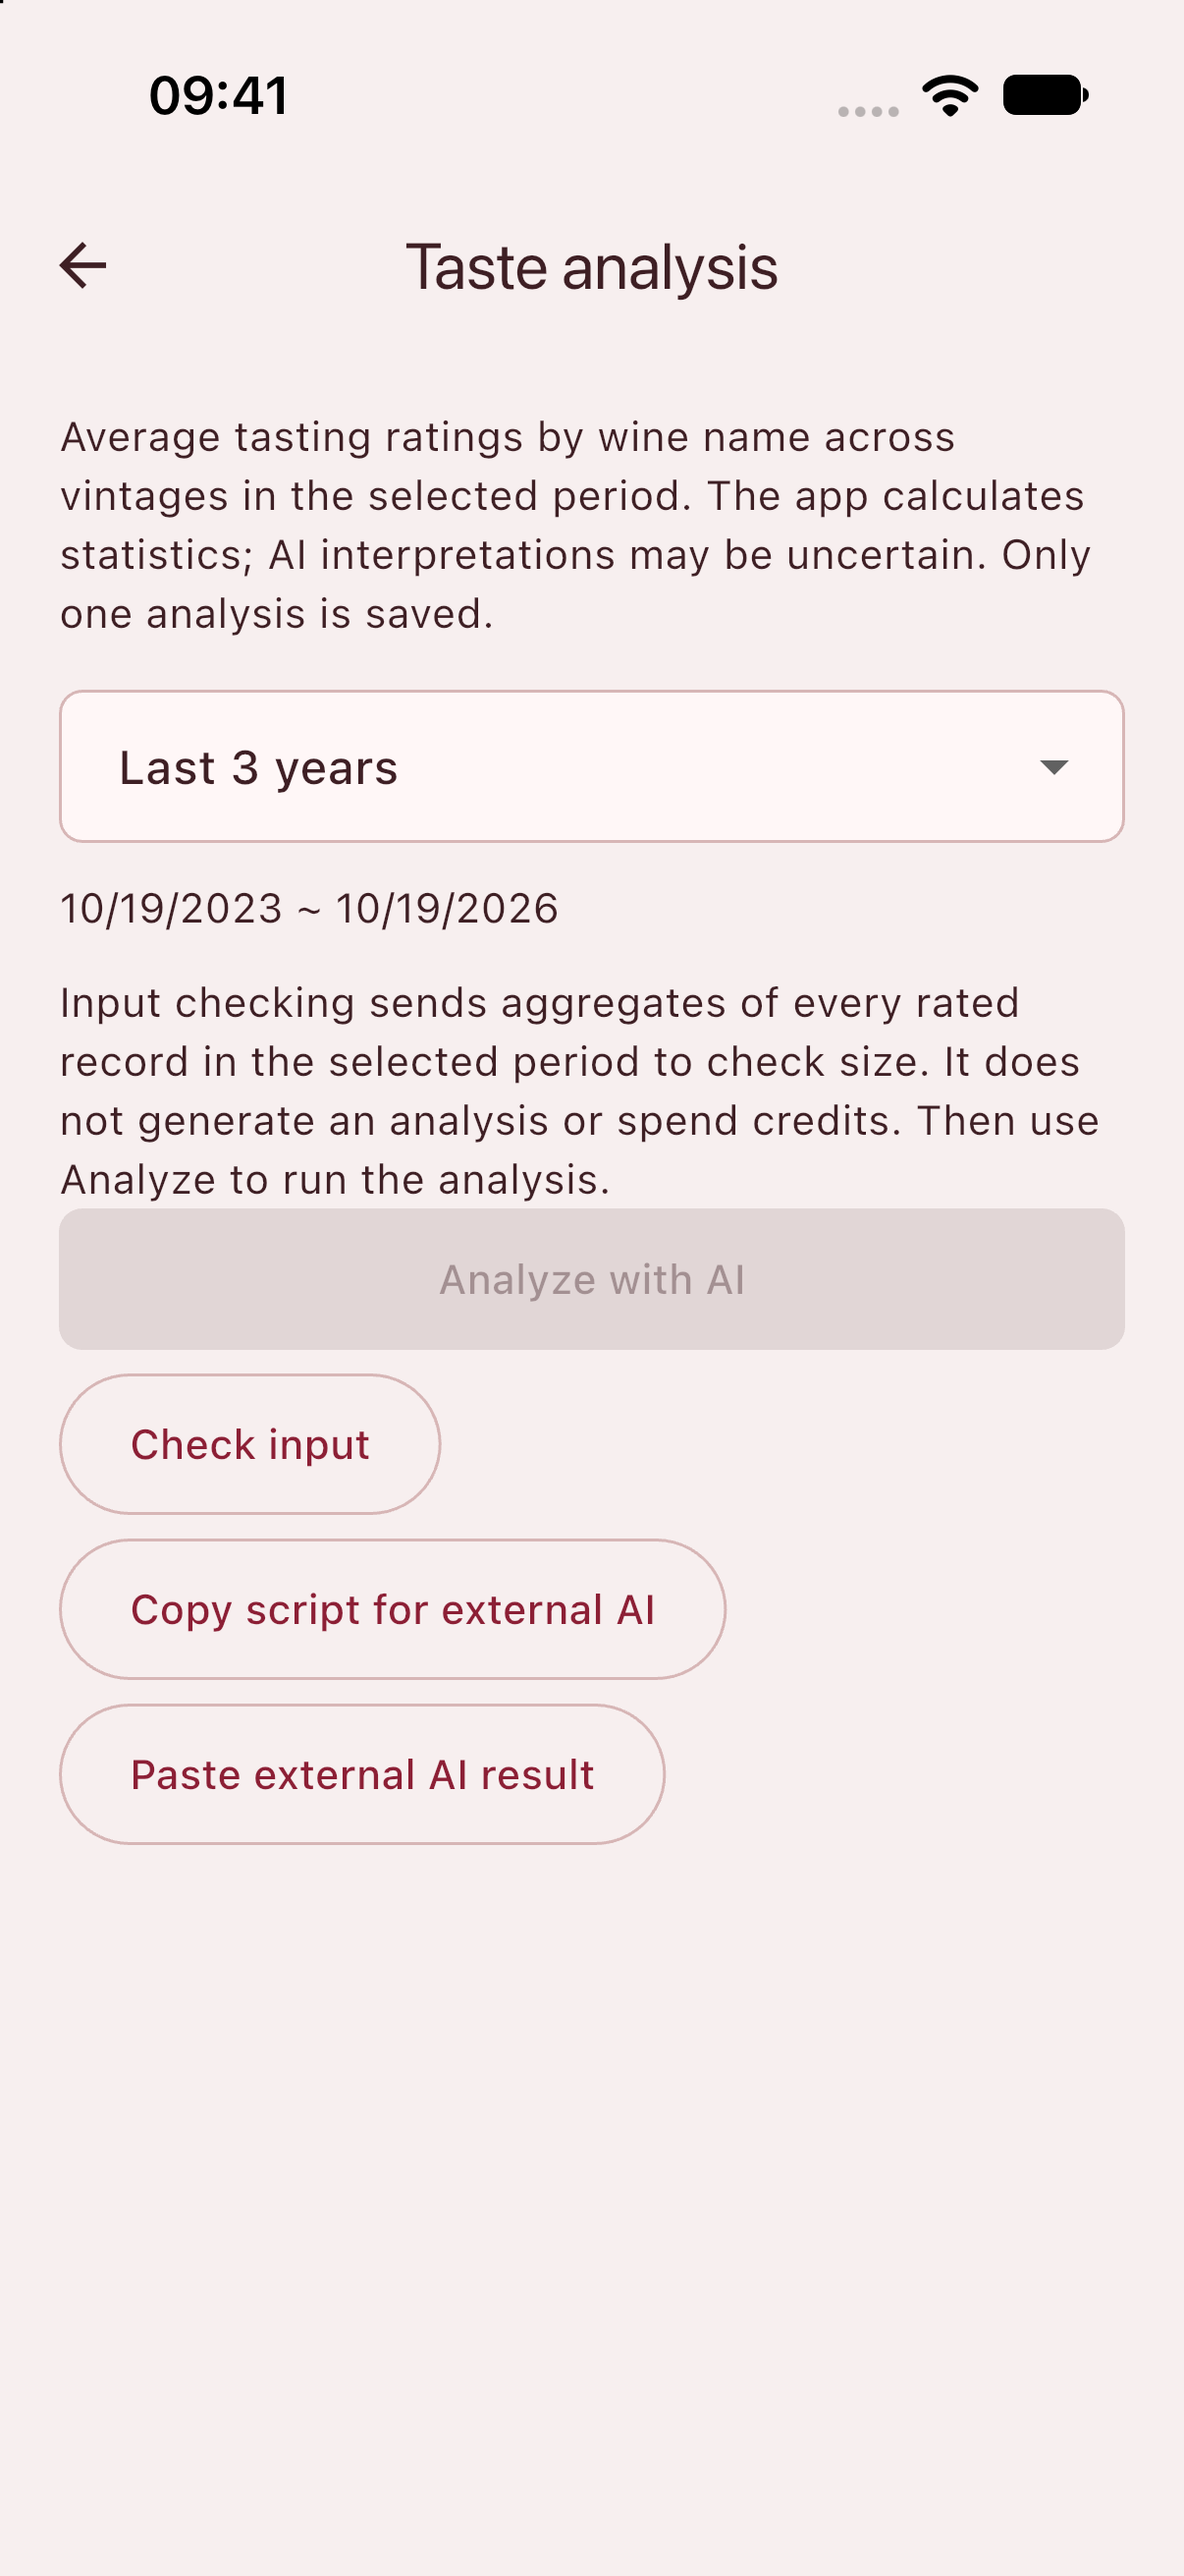
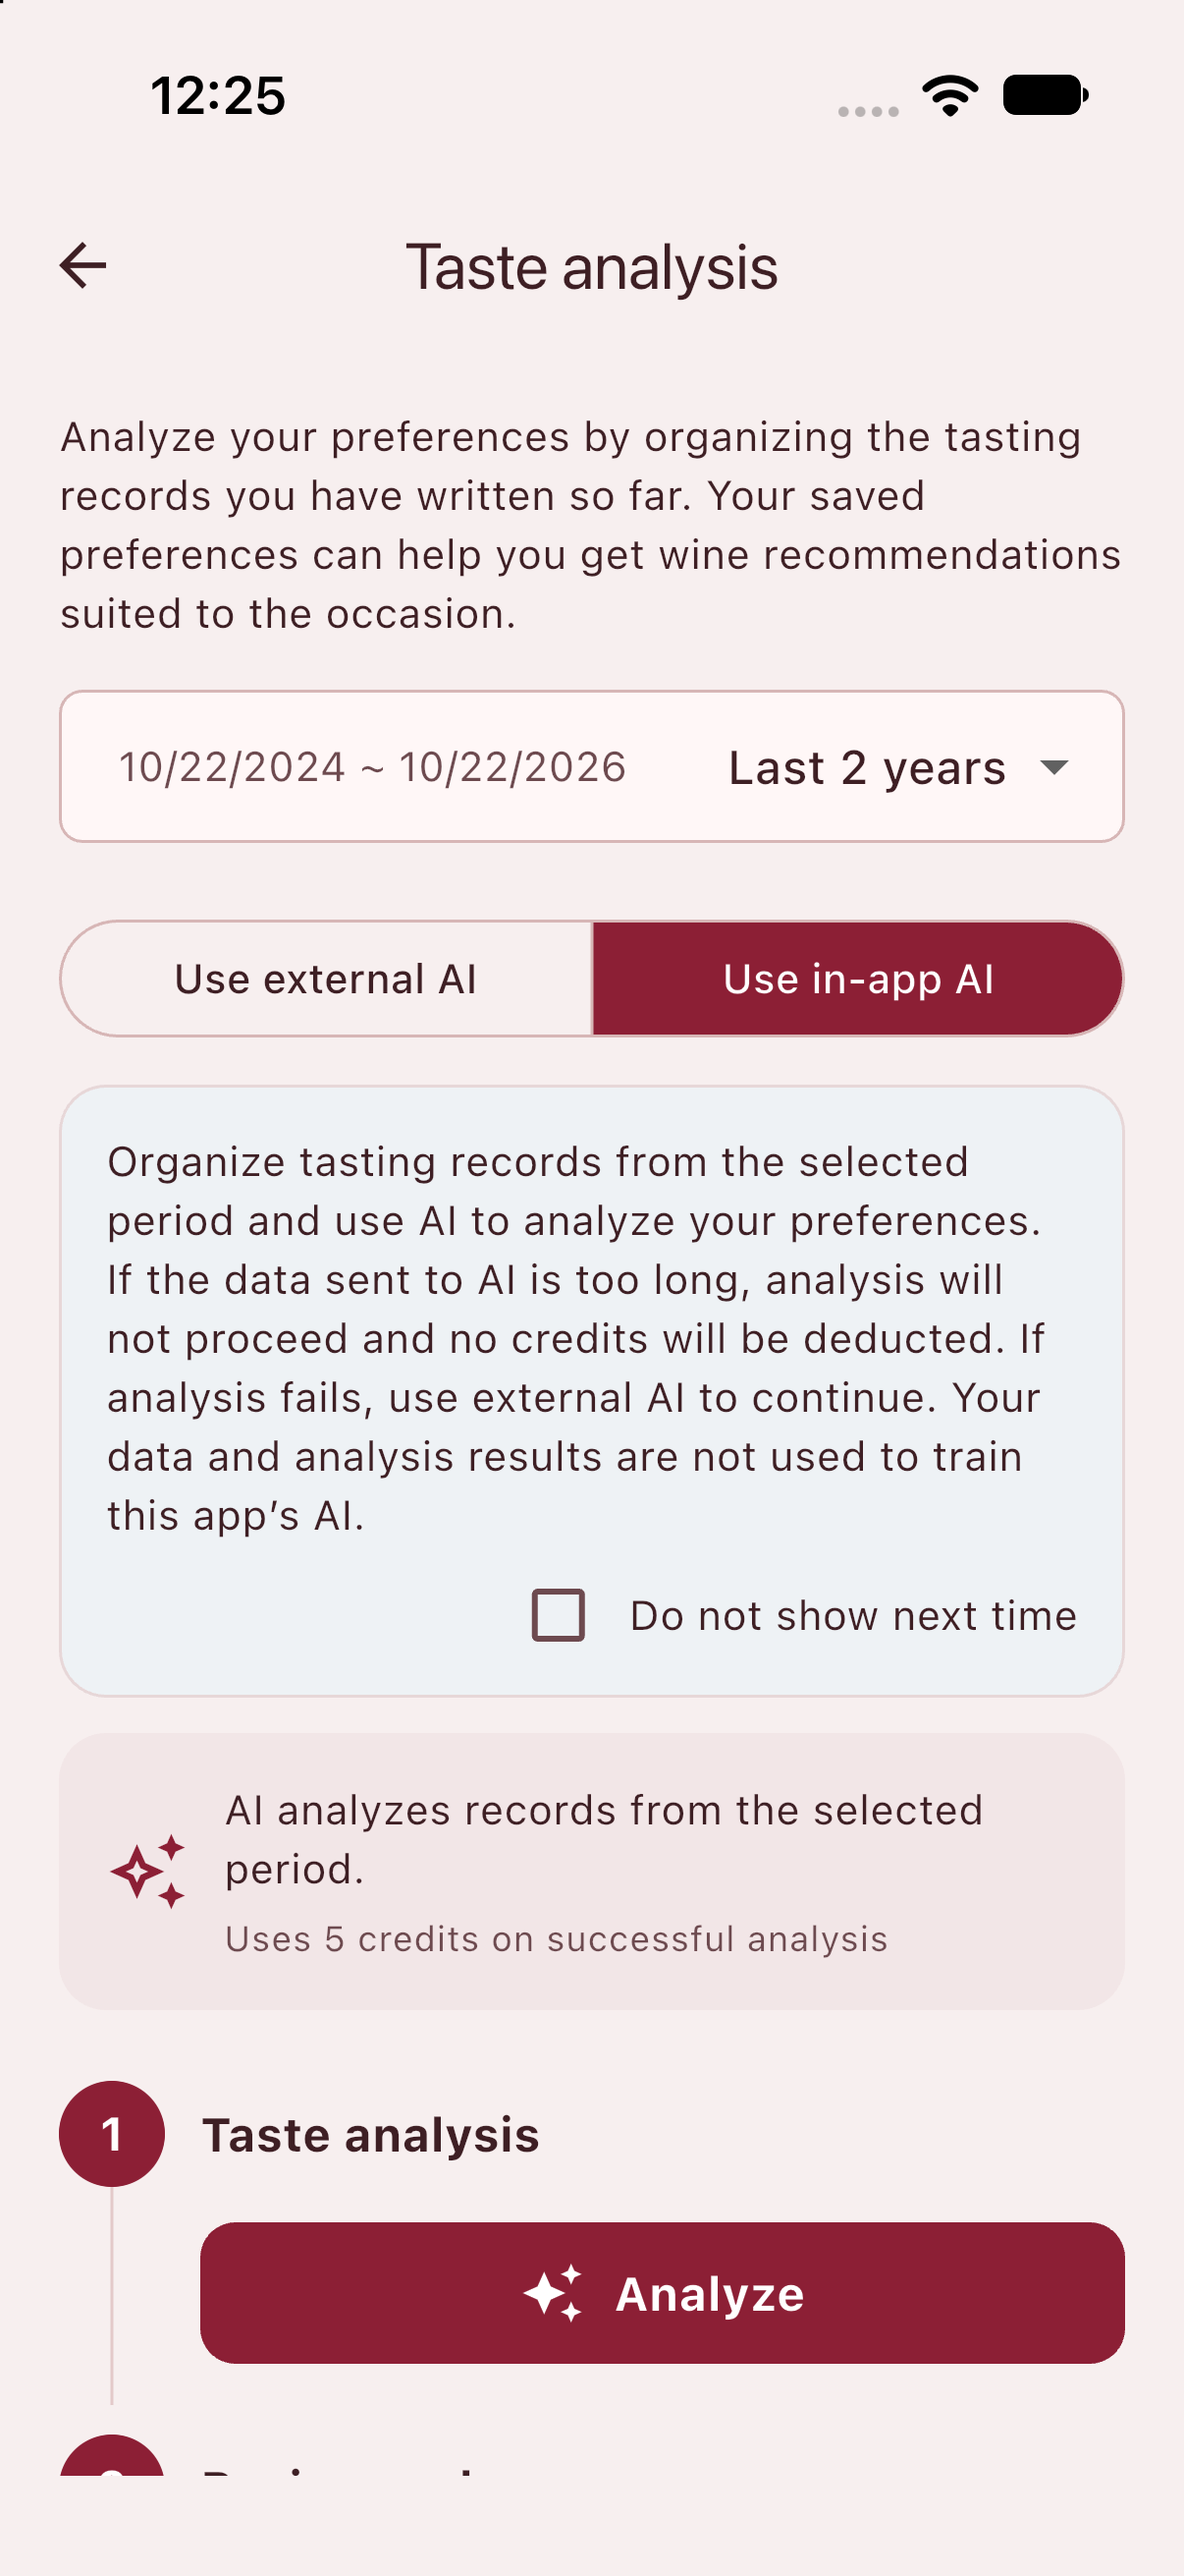
Refresh English taste analysis and recommendation captures

diff --git a/features.html b/features.html
@@ -237,7 +237,7 @@
             <h3>Discover patterns in your tasting notes</h3>
             <p>Choose a period from your tasting history to explore the wines you rated highly. Analyze your records with the in-app AI or an external AI you normally use, review the result, and save it to inform later recommendations. Consider the gaps too, especially where records are limited.</p>
             <div class="feature-media">
-              <figure class="feature-shot"><a href="images/features/olwine-taste-analysis-en.png"><img src="images/features/olwine-taste-analysis-en.png" alt="Analysis periods and external AI options" width="1206" height="2622" loading="lazy"></a><figcaption>Analysis periods and external AI options</figcaption></figure>
+              <figure class="feature-shot"><a href="images/features/olwine-taste-analysis-en.png"><img src="images/features/olwine-taste-analysis-en.png" alt="Analysis period and in-app or external AI selection" width="1206" height="2622" loading="lazy"></a><figcaption>Analysis period and in-app or external AI selection</figcaption></figure>
             </div>
           </article>
           <article class="feature-item" id="recommendations-en">

diff --git a/FEATURE_SCREENSHOT_BRIEF.md b/FEATURE_SCREENSHOT_BRIEF.md
@@ -2,11 +2,11 @@
 
 기능을 요금제로 나누지 않고 아래 순서로 소개한다. 한국어·영어 설명은 같은 내용을 사용한다. 기능별 이미지는 1~2장이다.
 
-## 2026-10-22 부분 갱신
+## 2026-10-22 갱신
 
 - 취향 분석·추천 설명을 현재 기간 선택과 내부/외부 AI, 취향·음식·상황·비교 시음 네 추천 목적에 맞게 수정했다.
-- `olwine-taste-analysis-ko.png`, `olwine-recommendation-ko.png`는 2026-10-22 iPhone 17/iOS 27 실제 화면(1206×2622)으로 교체했다. 분석이나 추천을 실행하지 않아 새 AI 호출·차감·결과 합성은 없다.
-- 영문 두 장은 Mac 잠금으로 촬영을 마치지 못했다. `olwine-taste-analysis-en.png`, `olwine-recommendation-en.png`는 아직 2026-10-19 이미지이며 최신 캡처 완료로 간주하지 않는다. 잠금 해제 후 영문 UI에서 같은 두 화면을 촬영해야 한다.
+- `olwine-taste-analysis-ko.png`, `olwine-recommendation-ko.png`, `olwine-taste-analysis-en.png`, `olwine-recommendation-en.png`를 2026-10-22 iPhone 17/iOS 27 실제 화면(1206×2622)으로 교체했다. 분석이나 추천을 실행하지 않아 새 AI 호출·차감·결과 합성은 없다.
+- 국문·영문 취향 분석은 최근 2년/내부 AI 선택 화면을, 추천은 같은 세 와인과 네 가지 추천 목적을 표시한다. 와인명·사진·시음 원본은 변경하지 않았다. 잠금 해제 후 영문 두 장의 촬영까지 완료했다.
 - 아래 2026-10-19 캡처 이력은 나머지 이미지의 출처 기록으로 유지한다.
 
 | 순서 | 주요 기능 | 이미지 |
